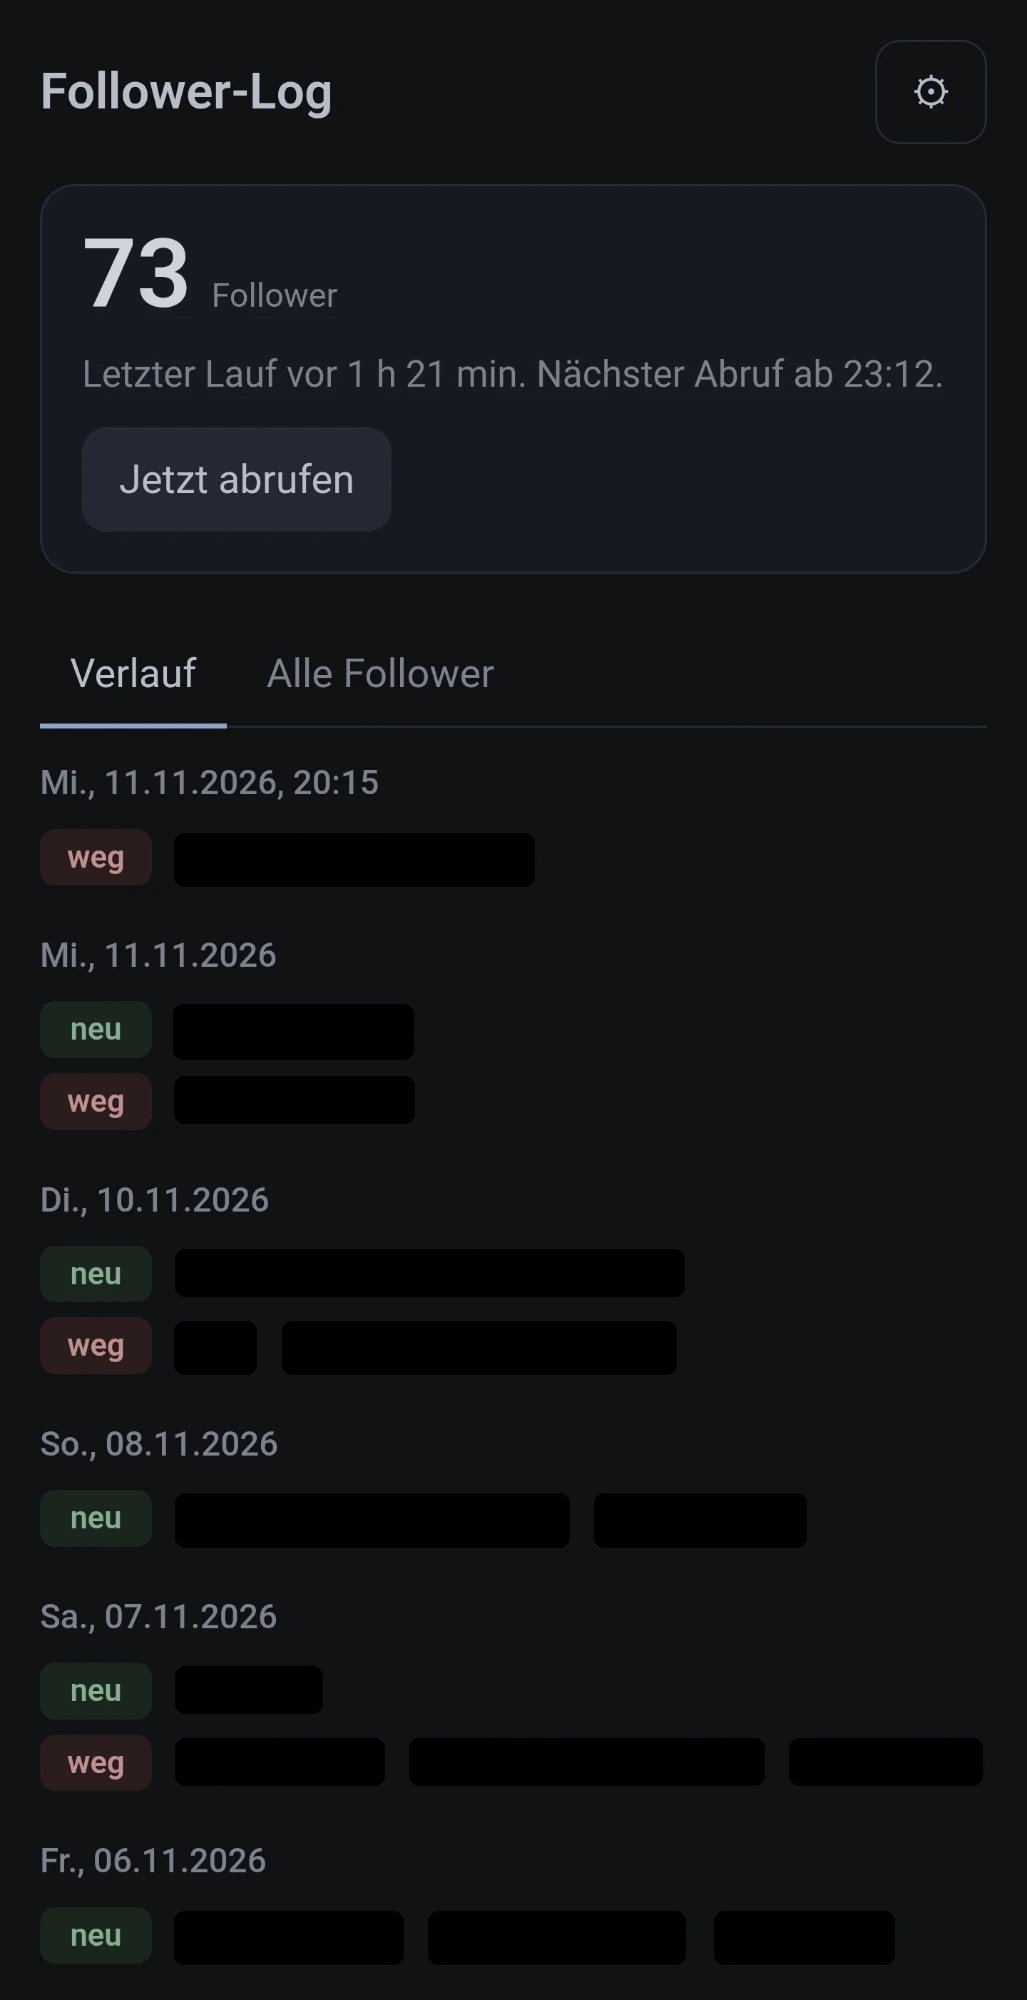
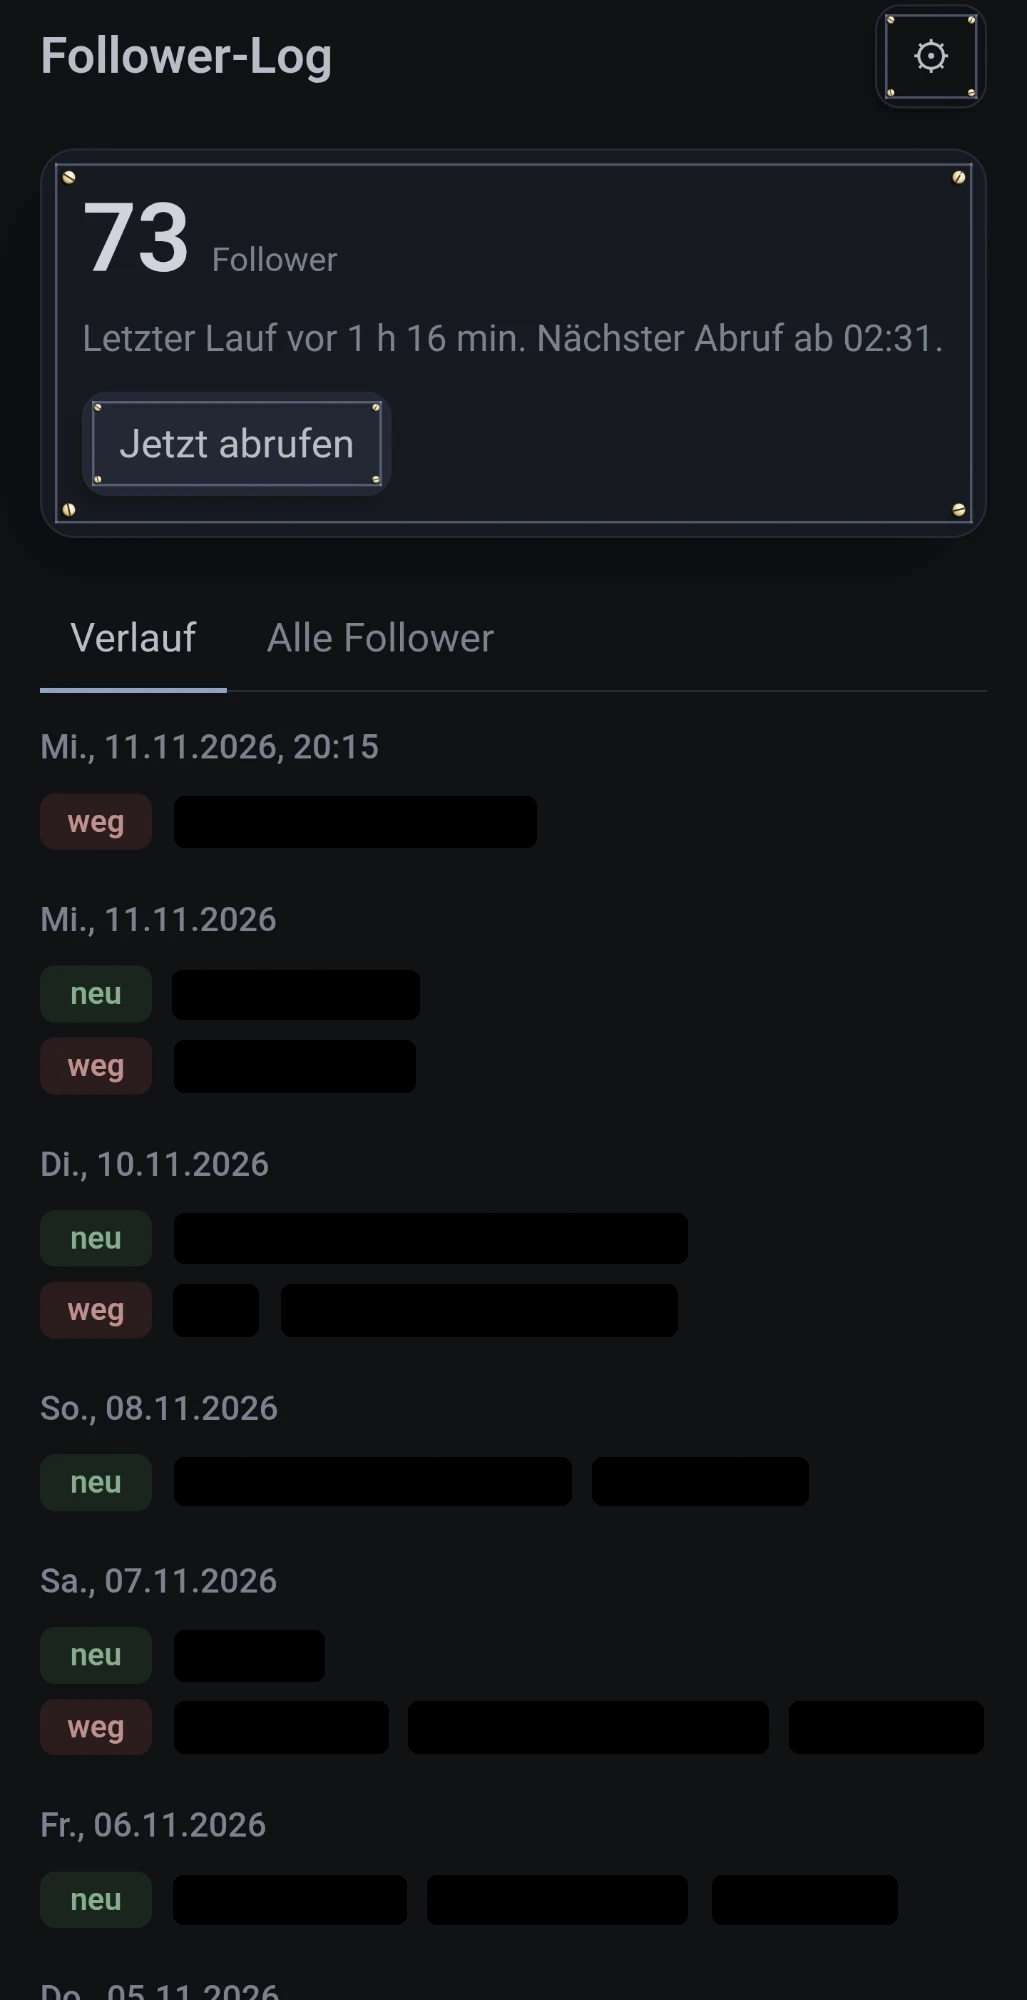
Follower-Log: Handyfoto im neuen Look, Namen geschwärzt

diff --git a/docs/anleitung/index.html b/docs/anleitung/index.html
@@ -259,7 +259,7 @@
 
 <section class="schritt echt">
   <h2>So sieht es auf dem Handy aus</h2>
-  <img src="handy.png" width="1027" height="2000" loading="lazy" alt="Die App auf dem Handy: 73 Follower, letzter Lauf vor 1 h 21 min, nächster Abruf ab 23:12, darunter der Verlauf je Tag mit grünen Marken neu und roten Marken weg. Die Namen sind geschwärzt.">
+  <img src="handy.png" width="1027" height="2000" loading="lazy" alt="Die App auf dem Handy: 73 Follower, letzter Lauf vor 1 h 16 min, nächster Abruf ab 02:31, darunter der Verlauf je Tag mit grünen Marken neu und roten Marken weg. Die Namen sind geschwärzt.">
   <p>Ein Bildschirmfoto von meinem Handy, nach der Einrichtung. Oben steht der Stand, darunter, wann der Workflow zuletzt lief und ab wann der nächste Abruf geht. Die Namen im Verlauf habe ich geschwärzt, bei dir stehen dort deine Follower als Links zu ihren Profilen.</p>
 </section>
 

diff --git a/README.md b/README.md
@@ -2,7 +2,7 @@
 
 Wer folgt dir auf GitHub, und wer ist wieder gegangen? Diese Vorlage legt dir ein privates Logbuch an und bringt eine kleine App fürs Handy mit, die beim Öffnen nachsieht.
 
-<img src="docs/bildschirmfoto.png" alt="Die App auf dem Handy: oben die Zahl der Follower, darunter der Verlauf mit neu und weg je Tag" width="320"> <img src="docs/anleitung/handy.png" alt="Die App auf meinem Handy: 73 Follower, letzter Lauf vor 1 h 21 min, nächster Abruf ab 23:12, darunter der Verlauf je Tag mit grünen Marken neu und roten Marken weg. Die Namen sind geschwärzt." width="320">
+<img src="docs/bildschirmfoto.png" alt="Die App auf dem Handy: oben die Zahl der Follower, darunter der Verlauf mit neu und weg je Tag" width="320"> <img src="docs/anleitung/handy.png" alt="Die App auf meinem Handy: 73 Follower, letzter Lauf vor 1 h 16 min, nächster Abruf ab 02:31, darunter der Verlauf je Tag mit grünen Marken neu und roten Marken weg. Die Namen sind geschwärzt." width="320">
 
 Links die Demo mit erfundenen Namen, rechts die App auf meinem Handy mit meinem echten Logbuch. Die Namen habe ich geschwärzt.
 
